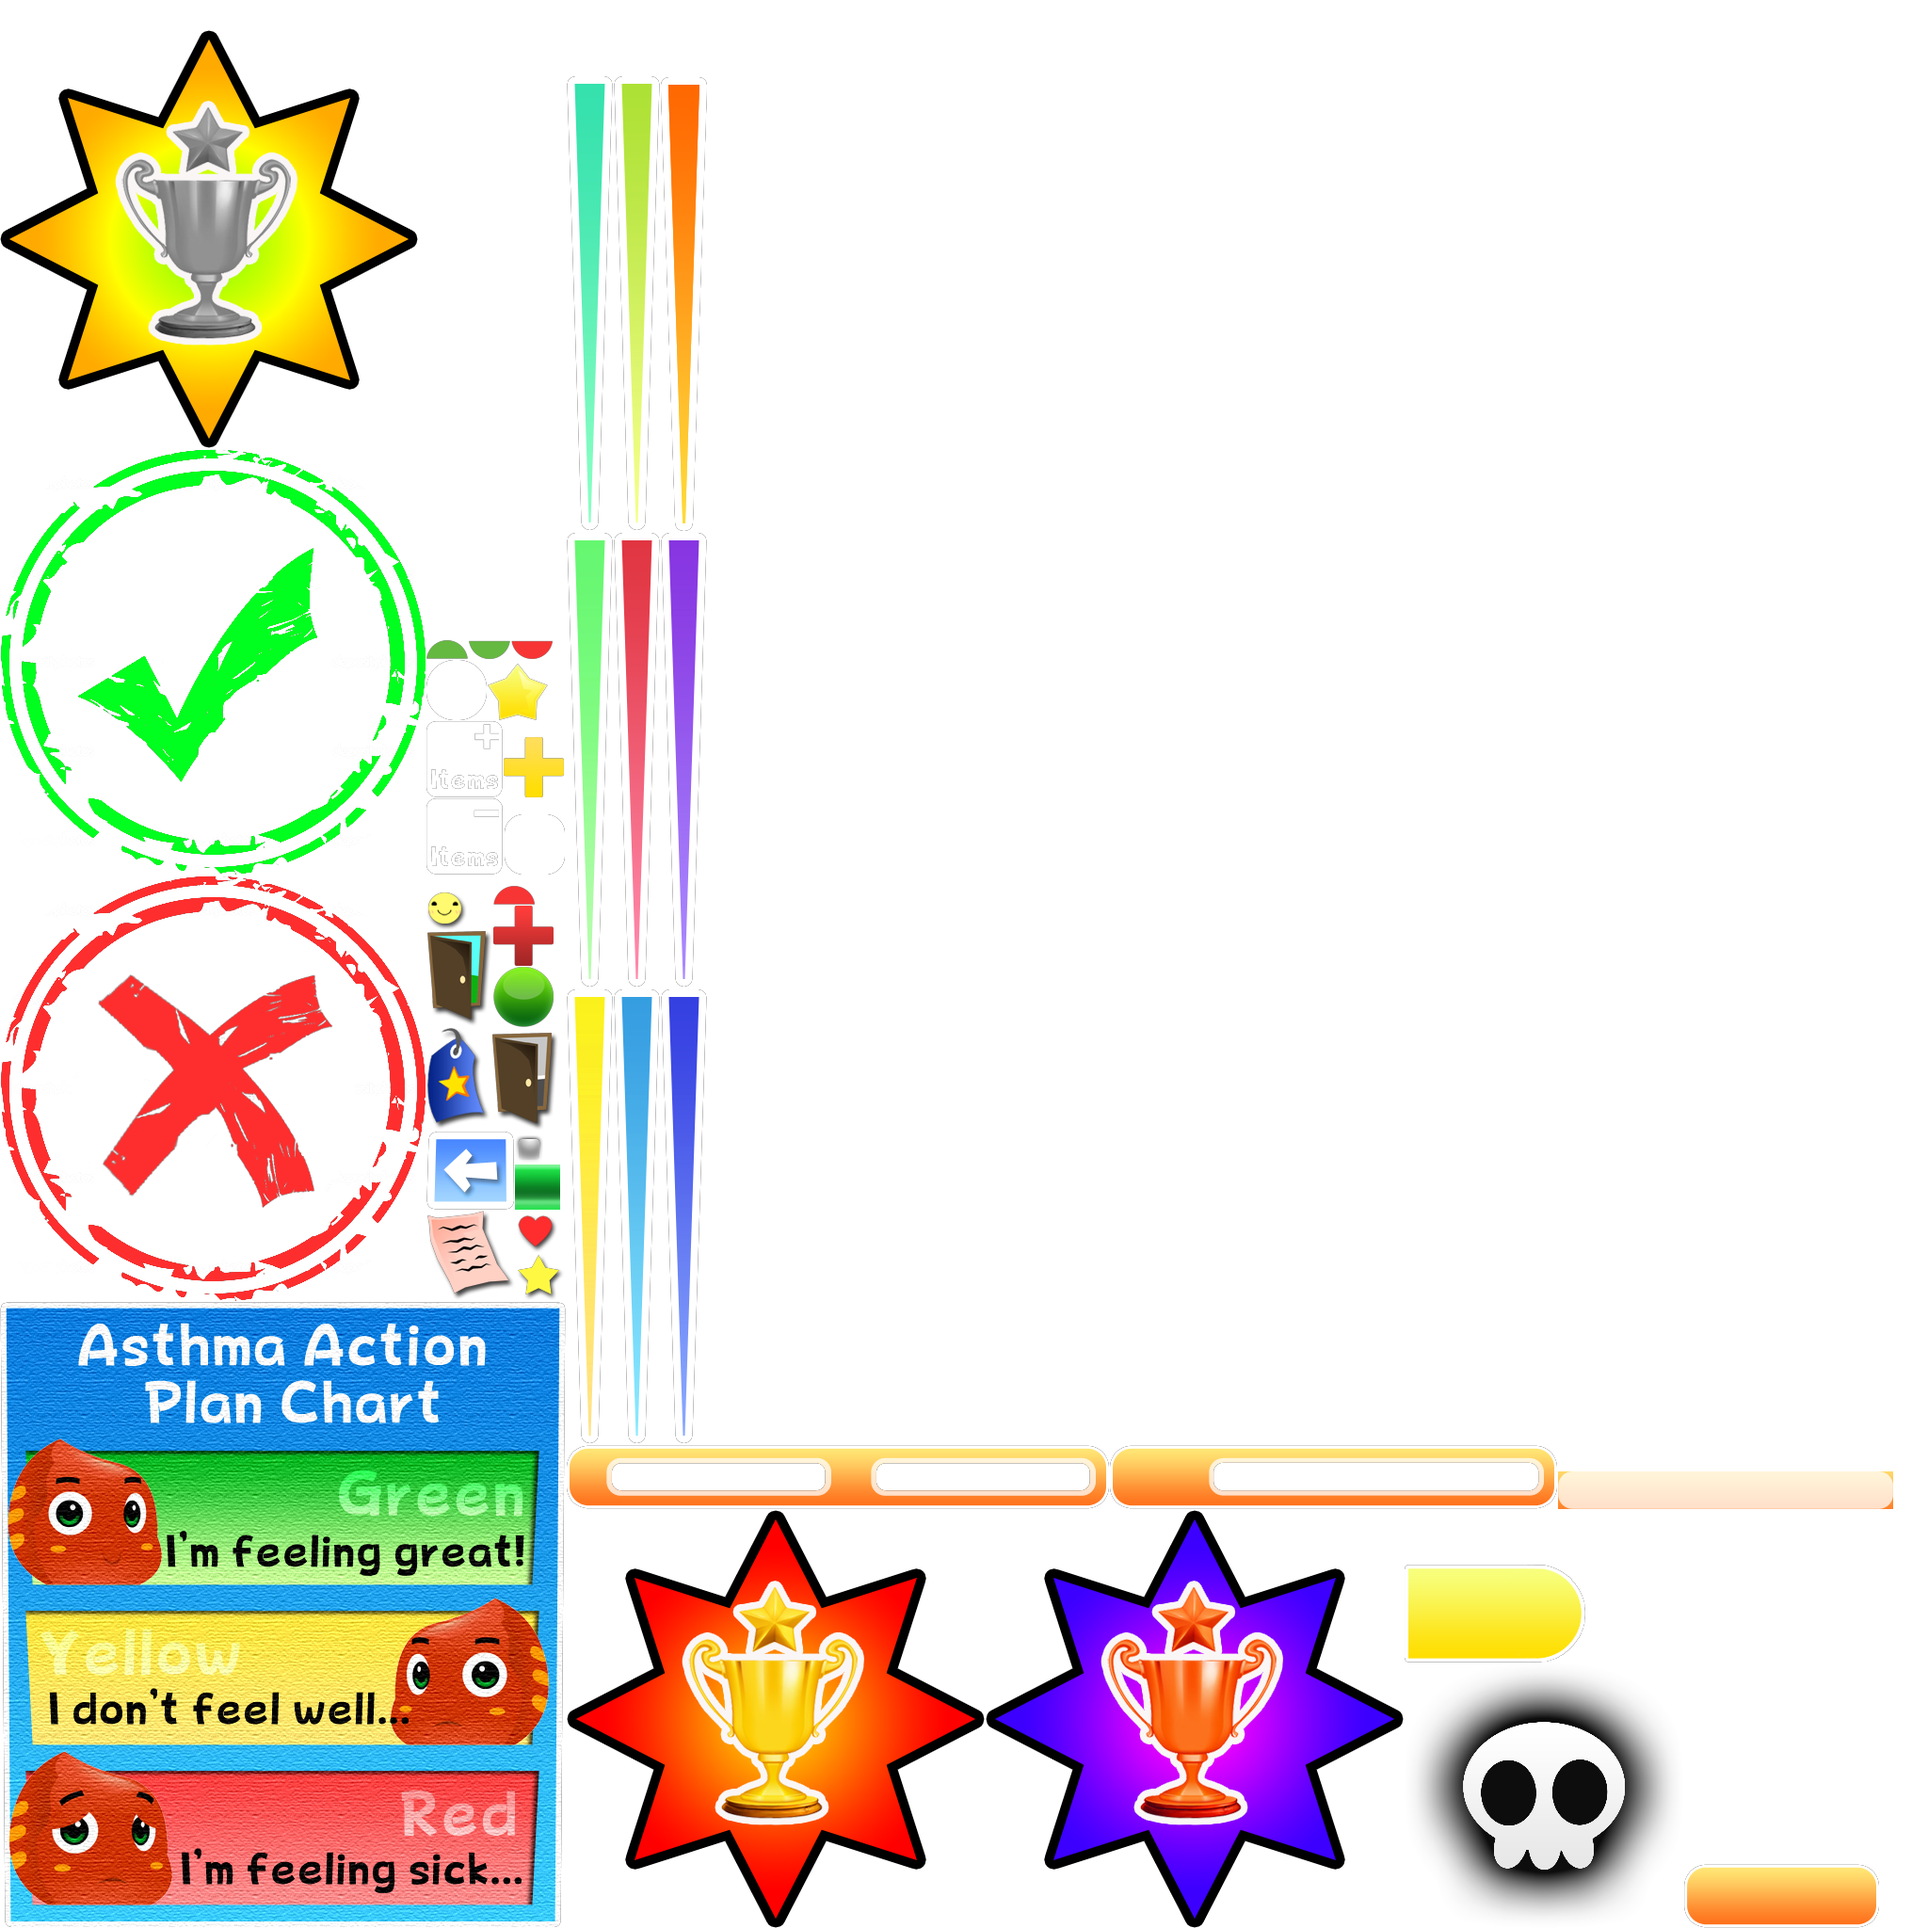
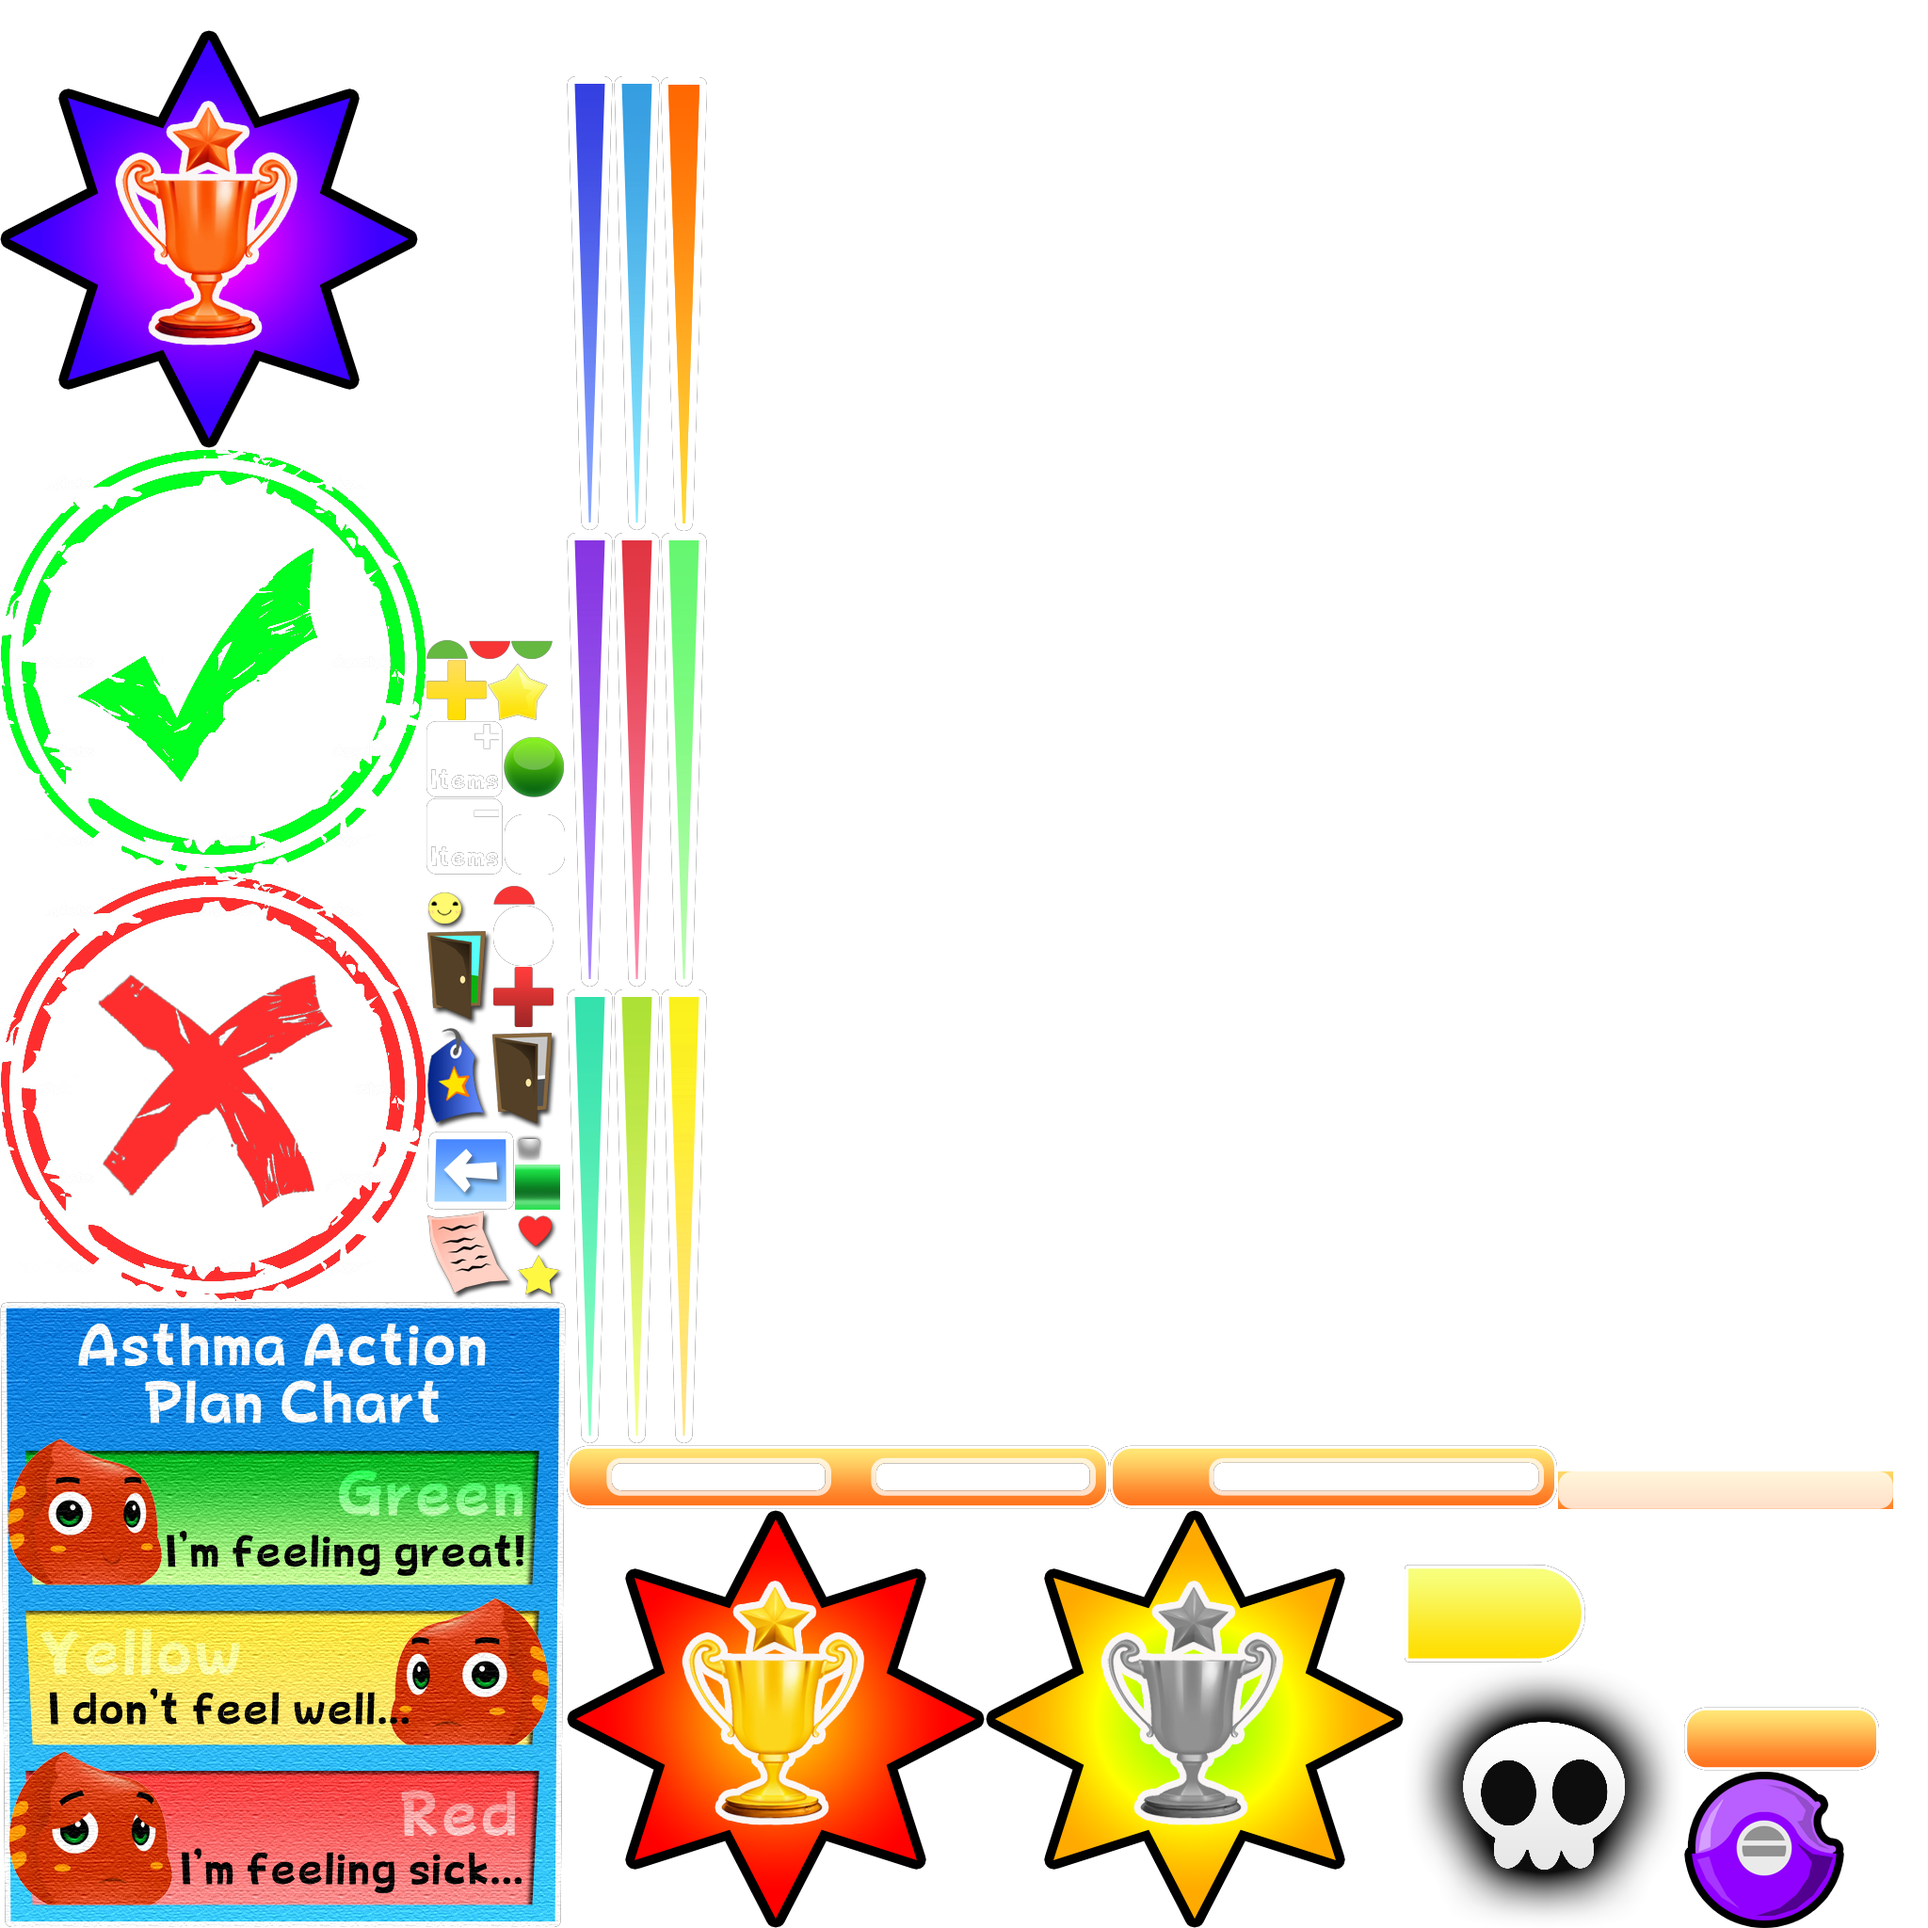
Real Inhaler: image for popup tip required

diff --git a/MyZooPets/Assets/Scripts/Controller/Tutorial.cs b/MyZooPets/Assets/Scripts/Controller/Tutorial.cs
@@ -95,7 +95,7 @@ public class Tutorial : MonoBehaviour {
 
     void openRealInhaler(){
         // todo: change sprite name
-        notificationUIManager.PopupTipWithImage("Use this inhaler every morning and afternoon to keep your pet healthy!", "guiPanelStatsHealth", clickManager.OpenRealInhaler, true, false);
+        notificationUIManager.PopupTipWithImage("Use this inhaler every morning and afternoon to keep your pet healthy!", "advairPurple", clickManager.OpenRealInhaler, true, false);
 
         TutorialHighlighting highlight = realInhaler.GetComponent<TutorialHighlighting>();
         highlight.HideArrow();
